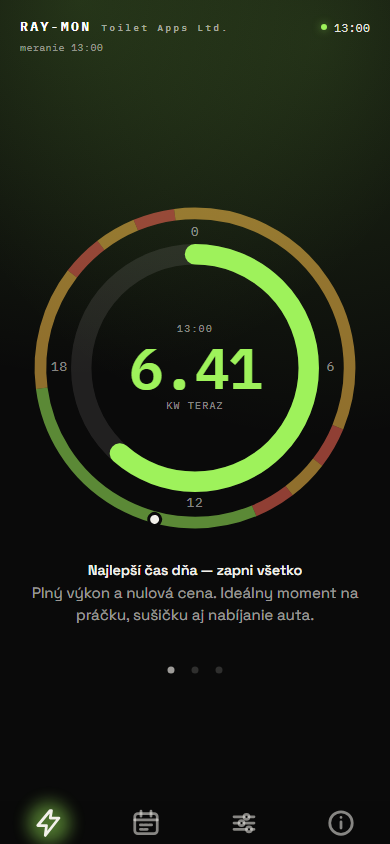
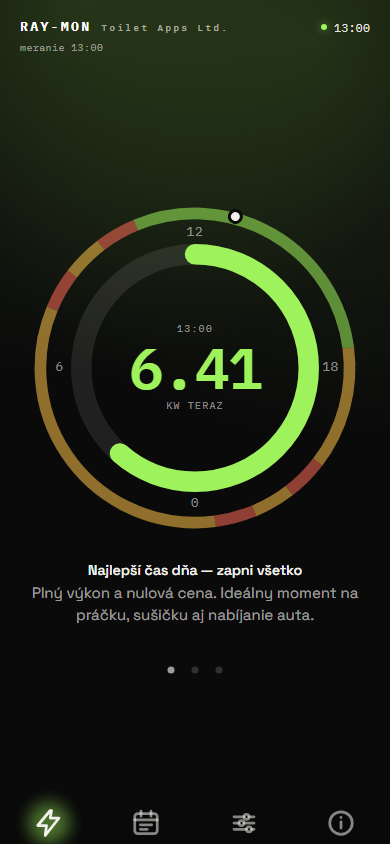
feat: ciferník otočený – poludnie hore, slnko ide zľava doprava (#190)
Denný prstenec v karte Terazky je otočený o 180°: **06:00 vľavo, 12:00
hore, 18:00 vpravo, polnoc dole**. Deň ide naďalej v smere hodinových
ručičiek, takže slnko na prstenci „prejde“ zľava cez vrch doprava.

- `ringPoint` / `minutesFromAngle` v `shared/chart-model.js` – z nich sa
kreslia pásma, bodka „teraz“ aj jazdec a čítajú ťuknutia
- natočenie jazdca (+180°), popisky hodín v `index.html`
- malý ciferník v karte Info otočený rovnako (skupina s `rotate(180)`),
aby vysvetlivka sedela s kartou Terazky
- oblúk výkonu (kW) sa nemení – nie je to čas
- jednotkový test upravený na novú orientáciu, snímky do README
pregenerované

Jedno nasadenie – v HTML ani v `dom.js` neubudol ani nepribudol žiadny
prvok.

🤖 Generated with [Claude Code](https://claude.com/claude-code)

Changed region(s): [[0.0923, 0.4313, 0.8923, 0.6469], [0.1231, 0.2464, 0.9231, 0.4313], [0.8308, 0.4313, 0.8615, 0.4621]]

diff --git a/index.html b/index.html
@@ -84,7 +84,8 @@
             <!-- PANEL: TERAZKY -->
             <section id="panel-terazky" class="panel panel-terazky" aria-labelledby="verdict-headline">
                 <div class="dial-hero card" id="dial-hero">
-                    <!-- Ciferník sa číta ako 24-hodinový: 00:00 hore, deň v smere hodinových ručičiek.
+                    <!-- Ciferník sa číta ako 24-hodinový: poludnie hore, 06:00 vľavo, 18:00 vpravo,
+                         polnoc dole - deň v smere hodinových ručičiek, slnko ide zľava doprava.
                          Vonkajší prstenec je deň s tarifnými pásmami (dopĺňa ho JS, viď dayRingSvg),
                          vnútorný oblúk aktuálny výkon. Pás dňa pod kartou zanikol - jeho úlohu
                          (nastaviť náhľad iného času) prevzal jazdec na dennom prstenci. -->
@@ -94,10 +95,10 @@
                             <!-- Hodiny sedia v medzere medzi prstencami (polomer 93 z 240 viewBoxu):
                                  vonkajší prstenec zaberá 102-110, vnútorný 71-85. Na samotnom
                                  prstenci predtým prekrývali tarifné pásma. -->
-                            <text class="dial-hour" x="120" y="27">0</text>
-                            <text class="dial-hour" x="213" y="120">6</text>
-                            <text class="dial-hour" x="120" y="213">12</text>
-                            <text class="dial-hour" x="27" y="120">18</text>
+                            <text class="dial-hour" x="120" y="27">12</text>
+                            <text class="dial-hour" x="213" y="120">18</text>
+                            <text class="dial-hour" x="120" y="213">0</text>
+                            <text class="dial-hour" x="27" y="120">6</text>
                             <circle class="dial-track" cx="120" cy="120" r="78" />
                             <circle id="dial-ring" class="dial-ring" cx="120" cy="120" r="78" transform="rotate(-90 120 120)" />
                         </svg>
@@ -605,19 +606,23 @@
                             </summary>
                             <div class="settings-body info-panel">
                                 <svg class="info-dial" viewBox="0 0 240 240" aria-hidden="true">
-                                    <path class="day-band amber" d="M120,14 A106,106 0 0 1 217.93,160.57" />
-                                    <path class="day-band red" d="M217.93,160.57 A106,106 0 0 1 204.10,184.53" />
-                                    <path class="day-band amber" d="M204.10,184.53 A106,106 0 0 1 184.53,204.10" />
-                                    <path class="day-band red" d="M184.53,204.10 A106,106 0 0 1 160.57,217.93" />
-                                    <path class="day-band green" d="M160.57,217.93 A106,106 0 0 1 14.91,133.83" />
-                                    <path class="day-band amber" d="M14.91,133.83 A106,106 0 0 1 35.90,55.47" />
-                                    <path class="day-band red" d="M35.90,55.47 A106,106 0 0 1 55.47,35.90" />
-                                    <path class="day-band amber" d="M55.47,35.90 A106,106 0 0 1 79.43,22.07" />
-                                    <path class="day-band red" d="M79.43,22.07 A106,106 0 0 1 106.17,14.91" />
-                                    <path class="day-band amber" d="M106.17,14.91 A106,106 0 0 1 120,14" />
+                                    <!-- Pásma a bodka sú kreslené s polnocou hore; otočenie ich posadí ako na ciferníku
+                                         v karte Terazky - poludnie hore. Oblúk výkonu nie je čas, ten sa neotáča. -->
+                                    <g transform="rotate(180 120 120)">
+                                        <path class="day-band amber" d="M120,14 A106,106 0 0 1 217.93,160.57" />
+                                        <path class="day-band red" d="M217.93,160.57 A106,106 0 0 1 204.10,184.53" />
+                                        <path class="day-band amber" d="M204.10,184.53 A106,106 0 0 1 184.53,204.10" />
+                                        <path class="day-band red" d="M184.53,204.10 A106,106 0 0 1 160.57,217.93" />
+                                        <path class="day-band green" d="M160.57,217.93 A106,106 0 0 1 14.91,133.83" />
+                                        <path class="day-band amber" d="M14.91,133.83 A106,106 0 0 1 35.90,55.47" />
+                                        <path class="day-band red" d="M35.90,55.47 A106,106 0 0 1 55.47,35.90" />
+                                        <path class="day-band amber" d="M55.47,35.90 A106,106 0 0 1 79.43,22.07" />
+                                        <path class="day-band red" d="M79.43,22.07 A106,106 0 0 1 106.17,14.91" />
+                                        <path class="day-band amber" d="M106.17,14.91 A106,106 0 0 1 120,14" />
+                                        <circle class="info-dial-now" cx="92.57" cy="222.39" r="5" />
+                                    </g>
                                     <circle class="dial-track" cx="120" cy="120" r="78" />
                                     <circle class="info-dial-power" cx="120" cy="120" r="78" transform="rotate(-90 120 120)" />
-                                    <circle class="info-dial-now" cx="92.57" cy="222.39" r="5" />
                                 </svg>
 
                                 <ul class="info-rows">

diff --git a/test/chart-model.test.js b/test/chart-model.test.js
@@ -95,14 +95,14 @@ test('chartTooltipModel: ľavý okraj = 05:00, pravý = 21:00, strop len ak body
     assert.ok(tip.clearKw !== null && tip.yFrac > 0 && tip.yFrac < 1);
 });
 
-test('denný prstenec: 00:00 hore, pásma obídu celý deň, uhol a minúta sú navzájom opačné', () => {
+test('denný prstenec: poludnie hore, pásma obídu celý deň, uhol a minúta sú navzájom opačné', () => {
     const c = RING.viewBox / 2;
-    const top = ringPoint(RING.rDay, 0);
-    assert.ok(Math.abs(top.x - c) < 1e-9 && top.y < c, '00:00 je hore');
+    const midnight = ringPoint(RING.rDay, 0);
+    assert.ok(Math.abs(midnight.x - c) < 1e-9 && midnight.y > c, 'polnoc je dole');
     const noon = ringPoint(RING.rDay, MINUTES_PER_DAY / 2);
-    assert.ok(Math.abs(noon.x - c) < 1e-9 && noon.y > c, 'poludnie je dole');
+    assert.ok(Math.abs(noon.x - c) < 1e-9 && noon.y < c, 'poludnie je hore');
     const six = ringPoint(RING.rDay, MINUTES_PER_DAY / 4);
-    assert.ok(six.x > c && Math.abs(six.y - c) < 1e-9, '06:00 je vpravo - deň ide v smere ručičiek');
+    assert.ok(six.x < c && Math.abs(six.y - c) < 1e-9, '06:00 je vľavo - slnko ide zľava doprava');
 
     // minutesFromAngle je opak ringPoint: čo jeden vyrobí, druhý prečíta späť.
     for (const m of [0, 95, 370, 786, 1000, 1435]) {
@@ -111,7 +111,7 @@ test('denný prstenec: 00:00 hore, pásma obídu celý deň, uhol a minúta sú 
     }
 
     const mid = ringPercent(MINUTES_PER_DAY / 2);
-    assert.ok(Math.abs(mid.left - 50) < 1e-9 && mid.top > 50, 'percentá sedia s bodom');
+    assert.ok(Math.abs(mid.left - 50) < 1e-9 && mid.top < 50, 'percentá sedia s bodom');
 
     // Polnoc nie je stena: 23:50 a 00:10 sú od seba 20 minút, nie 1420.
     assert.equal(ringGap(1430, 10), 20);

diff --git a/shared/chart-model.js b/shared/chart-model.js
@@ -165,13 +165,14 @@ export function chartTooltipModel(model, relX) {
 }
 
 // ---- Denný prstenec (ciferník na karte Terazky) ----------------------------------
-// Ciferník sa číta ako 24-hodinový: 00:00 hore, deň v smere hodinových ručičiek.
+// Ciferník sa číta ako 24-hodinový: poludnie hore, 06:00 vľavo, 18:00 vpravo, polnoc dole.
+// Deň ide v smere hodinových ručičiek, takže slnko prejde zľava cez vrch doprava.
 // Vonkajší prstenec je deň s tarifnými pásmami, vnútorný oblúk aktuálny výkon.
 export const RING = { viewBox: 240, rDay: 106, dayWidth: 8, rPower: 78, powerWidth: 14 };
 
 /** Bod na kružnici pre minútu dňa, v jednotkách viewBoxu. @param {number} r @param {number} minutes */
 export function ringPoint(r, minutes) {
-    const rad = ((minutes / MINUTES_PER_DAY) * 2 - 0.5) * Math.PI;
+    const rad = ((minutes / MINUTES_PER_DAY) * 2 + 0.5) * Math.PI;
     const c = RING.viewBox / 2;
     return { x: c + r * Math.cos(rad), y: c + r * Math.sin(rad) };
 }
@@ -186,8 +187,8 @@ export function ringPercent(minutes) {
 /** Uhol jazdca od stredu ciferníka -> minúta dňa. Opak ringPoint; polnoc nie je stena,
  * záporný uhol sa obtočí. @param {number} dx @param {number} dy vzdialenosť od stredu */
 export function minutesFromAngle(dx, dy) {
-    const deg = (Math.atan2(dy, dx) * 180) / Math.PI + 90;
-    return Math.round(((deg < 0 ? deg + 360 : deg) / 360) * MINUTES_PER_DAY) % MINUTES_PER_DAY;
+    const deg = (Math.atan2(dy, dx) * 180) / Math.PI - 90;
+    return Math.round((((deg + 360) % 360) / 360) * MINUTES_PER_DAY) % MINUTES_PER_DAY;
 }
 
 /** Vzdialenosť dvoch minút po obvode - cez polnoc je to bližšie než rozdiel čísel.

diff --git a/web/render/terazky.js b/web/render/terazky.js
@@ -100,7 +100,7 @@ function renderRingMarks(state, hero, dom) {
     placeOnRing(dom.dialGrip, hero.minutes);
     dom.dialGrip.classList.toggle('at-now', !hero.preview);
     // Otočenie o uhol času: dlhá os objímky tak leží po obvode prstenca.
-    dom.dialGrip.style.transform = `translate(-50%, -50%) rotate(${(hero.minutes / MINUTES_PER_DAY) * 360}deg)`;
+    dom.dialGrip.style.transform = `translate(-50%, -50%) rotate(${(hero.minutes / MINUTES_PER_DAY) * 360 + 180}deg)`;
     dom.dialGrip.setAttribute('aria-valuenow', String(hero.minutes));
     dom.dialGrip.setAttribute('aria-valuetext', `${hero.preview ? 'Náhľad' : 'Teraz'} ${minutesToTimeStr(hero.minutes)}`);
 }
